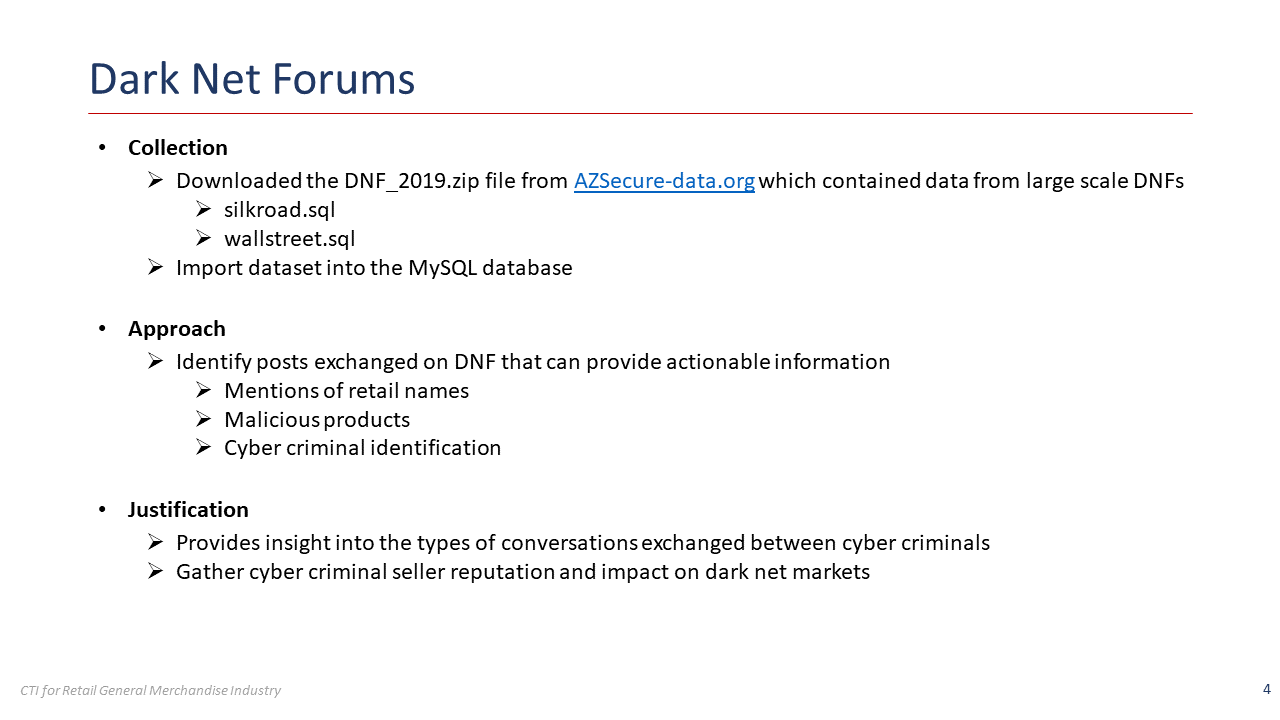
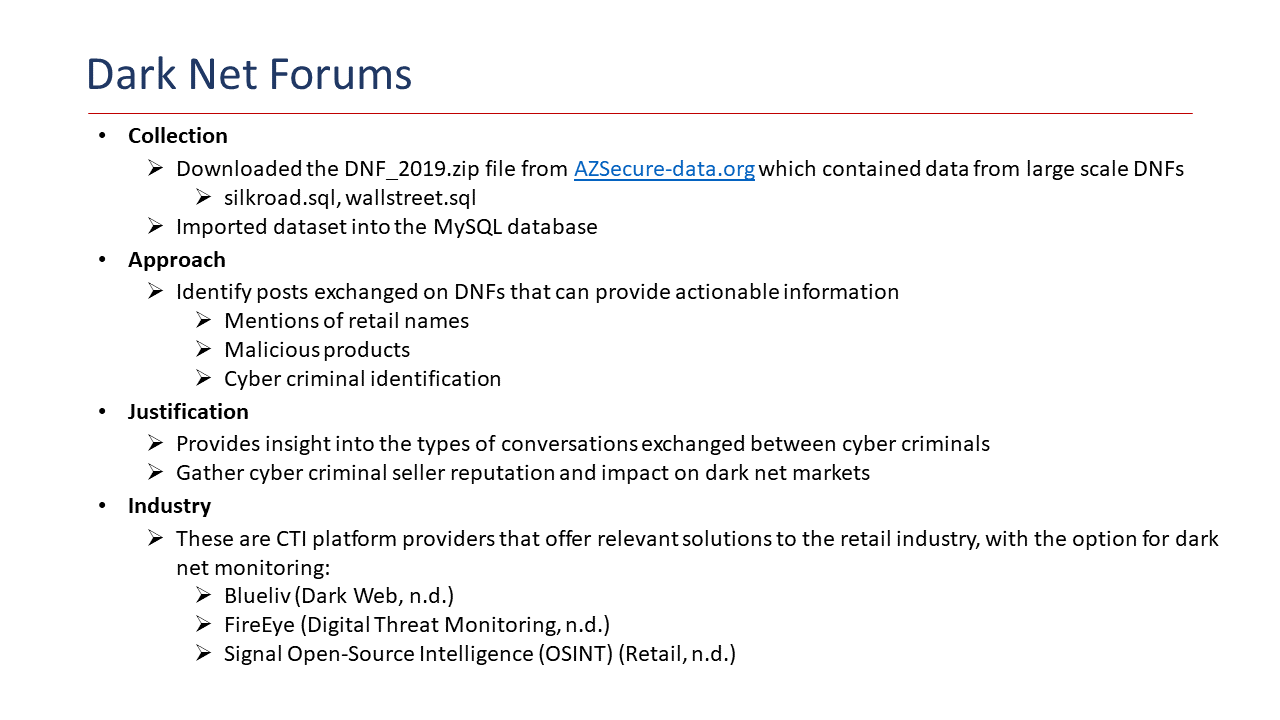
Updates to Slides

Changed region(s): [[0.0938, 0.1833, 0.9688, 0.9167], [0.0625, 0.0611, 0.3438, 0.1528], [0.0312, 0.9472, 0.2188, 0.9778]]

diff --git a/dataSummary/darknetmarkets.html b/dataSummary/darknetmarkets.html
@@ -7,7 +7,7 @@
 
 
 <body>
-    <img src="../images/DarkNetMarkets.PNG" class="centerImage">
+    <img src="../images/DarkNetMarkets.jpg" class="centerImage">
 </body>
 
 </html>
